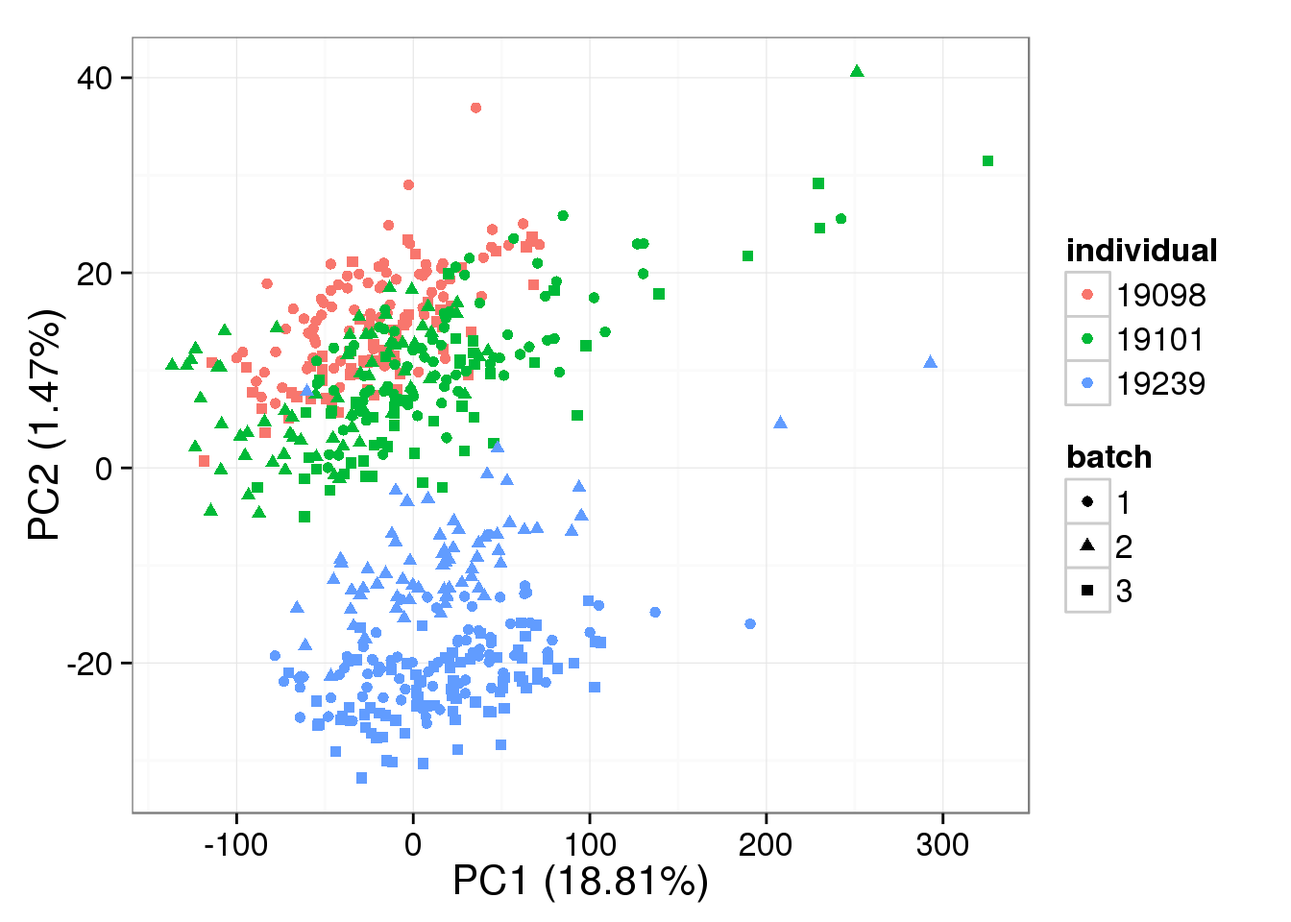
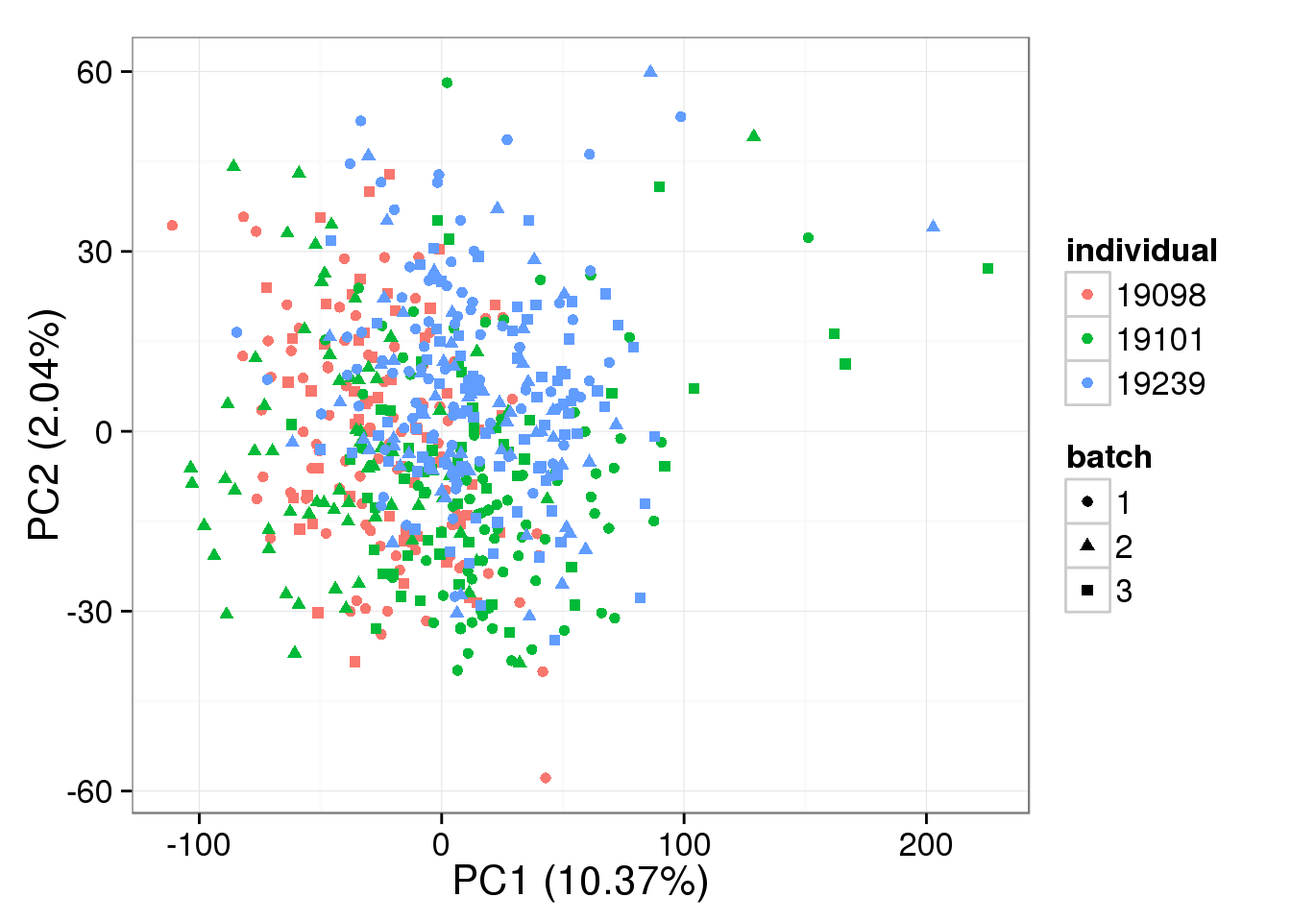
Build site.

diff --git a/analysis/gene-and-total-molecule.html b/analysis/gene-and-total-molecule.html
@@ -127,19 +127,34 @@ img {
 <div id="TOC">
 <ul>
 <li><a href="#prepare-single-cell-molecule-data">Prepare single cell molecule data</a></li>
-<li><a href="#distribution-of-molecule-counts-per-gene-in-each-individual">Distribution of molecule counts per gene in each individual</a></li>
-<li><a href="#total-molecule-counts-per-gene-of-the-same-individual">total molecule counts per gene of the same individual</a></li>
-<li><a href="#number-of-genes-detected-and-total-molecule-counts">number of genes detected and total molecule counts</a></li>
+<li><a href="#number-of-genes-detected-and-total-molecule-counts-in-single-cells">Number of genes detected and total molecule counts in single cells</a></li>
+<li><a href="#distribution-of-molecule-counts-per-gene-in-each-individual">Distribution of molecule counts per gene in each individual</a><ul>
+<li><a href="#all-endogenous-genes">All endogenous genes</a></li>
+<li><a href="#top-5000-genes">Top 5000 genes</a></li>
+<li><a href="#bottom-5000-genes">Bottom 5000 genes</a></li>
+</ul></li>
+<li><a href="#median-molecule-counts-per-gene-of-the-same-individual">Median molecule counts per gene of the same individual</a></li>
 <li><a href="#session-information">Session information</a></li>
 </ul>
 </div>
 
-<p><strong>Last updated:</strong> 2015-09-17</p>
-<p><strong>Code version:</strong> 936004610ac6f6e418d0b7e3f0da76378b29d647</p>
+<p><strong>Last updated:</strong> 2015-09-21</p>
+<p><strong>Code version:</strong> 5ebd0cb11c559b6dd5b271dff713c64be62ac63b</p>
 <pre class="r"><code>source(&quot;functions.R&quot;)
 library(&quot;limma&quot;)
 library(&quot;edgeR&quot;)
-library(ggplot2)
+library(&quot;dplyr&quot;)</code></pre>
+<pre><code>
+Attaching package: &#39;dplyr&#39;
+
+The following objects are masked from &#39;package:stats&#39;:
+
+    filter, lag
+
+The following objects are masked from &#39;package:base&#39;:
+
+    intersect, setdiff, setequal, union</code></pre>
+<pre class="r"><code>library(ggplot2)
 theme_set(theme_bw(base_size = 16))</code></pre>
 <p>From previous analysis, we found that <a href="compare-reads-v-molecules.html#effect-of-sequencing-depth-on-molecule-count">19098 has fewer reads but more molecules</a>. One of the possible cause is that there are more lowly expressed genes being detected in 19098.</p>
 <div id="prepare-single-cell-molecule-data" class="section level2">
@@ -166,7 +181,6 @@ stopifnot(dim(reads) == dim(molecules),
           nrow(anno) == ncol(molecules))</code></pre>
 <p>Remove batch 2 of individual 19098.</p>
 <pre class="r"><code>molecules_no &lt;- molecules[, !(anno$individual == 19098 &amp; anno$batch == 2)]
-reads_single &lt;- reads[, !(anno$individual == 19098 &amp; anno$batch == 2)]
 anno_no &lt;- anno[!(anno$individual == 19098 &amp; anno$batch == 2), ]
 stopifnot(ncol(molecules_no) == nrow(anno_no))</code></pre>
 <p>Remove bulk samples.</p>
@@ -175,26 +189,65 @@ anno_single &lt;- anno_no[anno_no$well != &quot;bulk&quot;, ]
 stopifnot(ncol(molecules_single) == nrow(anno_single))</code></pre>
 <p>Remove genes with zero count in the single cells</p>
 <pre class="r"><code>expressed_single &lt;- rowSums(molecules_single) &gt; 0
-molecules_single &lt;- molecules_single[which(expressed_single), ]
-reads_single &lt;- reads_single[expressed_single, ]</code></pre>
-<p>remove gene with molecule count larger than 1024 (15 if them)</p>
+molecules_single &lt;- molecules_single[which(expressed_single), ]</code></pre>
+<p>Remove gene with molecule count larger than 1024 (15 of them) for correction of collision probability</p>
 <pre class="r"><code>overexpressed_genes &lt;- rownames(molecules_single)[apply(molecules_single, 1,
                                                         function(x) any(x &gt;= 1024))]
-molecules_single &lt;- molecules_single[!(rownames(molecules_single) %in% overexpressed_genes), ]</code></pre>
-<p>collision probability and cpm molecule counts</p>
-<pre class="r"><code>molecules_single_collision &lt;- -1024 * log(1 - molecules_single / 1024)
-molecules_single_cpm &lt;- cpm(molecules_single_collision, log = TRUE)</code></pre>
+molecules_single &lt;- molecules_single[!(rownames(molecules_single) %in% overexpressed_genes), ]
+molecules_single_collision &lt;- -1024 * log(1 - molecules_single / 1024)</code></pre>
+<p>Remove ERCC, keep only the endogenous genes</p>
+<pre class="r"><code>molecules_single_ENSG &lt;- molecules_single[grep(&quot;ENSG&quot;, rownames(molecules_single)),]
+molecules_single_ERCC &lt;- molecules_single[grep(&quot;ERCC&quot;, rownames(molecules_single)),]
+stopifnot(dim(molecules_single_ERCC)[1] + dim(molecules_single_ENSG)[1] == dim(molecules_single)[1])</code></pre>
+<p>standardization by cpm molecule counts</p>
+<pre class="r"><code>molecules_single_ENSG_cpm &lt;- cpm(molecules_single_ENSG, log = TRUE)
+molecules_single_ERCC_cpm &lt;- cpm(molecules_single_ERCC, log = TRUE)</code></pre>
+</div>
+<div id="number-of-genes-detected-and-total-molecule-counts-in-single-cells" class="section level2">
+<h2>Number of genes detected and total molecule counts in single cells</h2>
+<p>The number of genes (both endogenous genes and ERCC genes) per cell corelated with the the total molecule numbers. More total molecules, more genes. However, interestingly, 19098 have not only more total gene molecules and more detected genes but also more ERCC total molecules and more ERCC genes detected.</p>
+<pre class="r"><code>## number of genes detected in each cell
+anno_single$number_gene &lt;- colSums(molecules_single_ENSG &gt; 0)
+anno_single$number_ERCC &lt;- colSums(molecules_single_ERCC &gt; 0)
+
+## number of total molecule counts in each cell
+anno_single$total_gene_molecule &lt;- colSums(molecules_single_ENSG) 
+anno_single$total_ERCC_molecule &lt;- colSums(molecules_single_ERCC) 
+
+## plot 
+ggplot(anno_single, aes(x = total_gene_molecule, y = number_gene, col = as.factor(individual), shape = as.factor(batch))) + geom_point(size = 3, alpha = 0.5) </code></pre>
+<p><img src="figure/gene-and-total-molecule.Rmd/gene-detected-1.png" title="" alt="" width="672" style="display: block; margin: auto;" /></p>
+<pre class="r"><code>ggplot(anno_single, aes(x = as.factor(individual), y = total_gene_molecule, fill = as.factor(batch))) + geom_violin(alpha = 0.5) + geom_boxplot(alpha = 0.01, width = 0.1, position = position_dodge(width = 0.9)) + labs( title = &quot;total number of gene molecule counts&quot;)</code></pre>
+<p><img src="figure/gene-and-total-molecule.Rmd/gene-detected-2.png" title="" alt="" width="672" style="display: block; margin: auto;" /></p>
+<pre class="r"><code>ggplot(anno_single, aes(x = as.factor(individual), y = total_ERCC_molecule, fill = as.factor(batch))) + geom_violin(alpha = 0.5) + geom_boxplot(alpha = 0.01, width = 0.1, position = position_dodge(width = 0.9)) + labs( title = &quot;total numer of ERCC molecule counts&quot;)</code></pre>
+<p><img src="figure/gene-and-total-molecule.Rmd/gene-detected-3.png" title="" alt="" width="672" style="display: block; margin: auto;" /></p>
+<pre class="r"><code>ggplot(anno_single, aes(x = as.factor(individual), y = number_gene, fill = as.factor(batch))) + geom_violin(alpha = 0.5) + geom_boxplot(alpha = 0.1, width = 0.1, position = position_dodge(width = 0.9)) + labs( title = &quot;number of endogenous genes detected&quot;)</code></pre>
+<p><img src="figure/gene-and-total-molecule.Rmd/gene-detected-4.png" title="" alt="" width="672" style="display: block; margin: auto;" /></p>
+<pre class="r"><code>ggplot(anno_single, aes(x = as.factor(individual), y = number_ERCC, fill = as.factor(batch))) + geom_violin(alpha = 0.5) + geom_boxplot(alpha = 0.1, width = 0.1, position = position_dodge(width = 0.9)) + labs( title = &quot;number of ERCC genes detected&quot;)</code></pre>
+<p><img src="figure/gene-and-total-molecule.Rmd/gene-detected-5.png" title="" alt="" width="672" style="display: block; margin: auto;" /></p>
+<p>To standardized within each cell, cpm was done separately for endogenous genes and ERCCs. cpm does not seem to affect the endogenous genes, whereas cpm make the ERCC more similar across batch and also across individual, suggesting that the distribution of ERCC gene expression is similar across batch and across indiviual.</p>
+<pre class="r"><code>## number of total molecule counts in each cell AFTER cpm
+anno_single$total_gene_molecule_cpm &lt;- colSums(molecules_single_ENSG_cpm) 
+anno_single$total_ERCC_molecule_cpm &lt;- colSums(molecules_single_ERCC_cpm)
+
+ggplot(anno_single, aes(x = as.factor(individual), y = total_gene_molecule_cpm, fill = as.factor(batch))) + geom_violin(alpha = 0.5) + geom_boxplot(alpha = 0.01, width = 0.1, position = position_dodge(width = 0.9)) + labs( title = &quot;total gene molecule (cpm log)&quot;)</code></pre>
+<p><img src="figure/gene-and-total-molecule.Rmd/gene-detected-cpm-1.png" title="" alt="" width="672" style="display: block; margin: auto;" /></p>
+<pre class="r"><code>ggplot(anno_single, aes(x = as.factor(individual), y = total_ERCC_molecule_cpm, fill = as.factor(batch))) + geom_violin(alpha = 0.5) + geom_boxplot(alpha = 0.01, width = 0.1, position = position_dodge(width = 0.9)) + labs( title = &quot;total ERCC molecule (cpm log)&quot;)</code></pre>
+<p><img src="figure/gene-and-total-molecule.Rmd/gene-detected-cpm-2.png" title="" alt="" width="672" style="display: block; margin: auto;" /></p>
 </div>
 <div id="distribution-of-molecule-counts-per-gene-in-each-individual" class="section level2">
 <h2>Distribution of molecule counts per gene in each individual</h2>
+<div id="all-endogenous-genes" class="section level3">
+<h3>All endogenous genes</h3>
+<p>Do a density plot of molecule counts per gene per cell to see if 19098 have more lowly expressed genes. However, it’s very hard to visualize it.</p>
 <pre class="r"><code>## 19098 (total 142 cells)
-molecules_single_cpm_19098 &lt;- molecules_single_cpm[,grep(&quot;19098&quot;, colnames(molecules_single_cpm))]
+molecules_single_ENSG_19098 &lt;- as.matrix(log(molecules_single_ENSG[,grep(&quot;19098&quot;, colnames(molecules_single_ENSG))]))
 
 ## 19101 (total 197 cells)
-molecules_single_cpm_19101 &lt;- molecules_single_cpm[,grep(&quot;19101&quot;, colnames(molecules_single_cpm))]
+molecules_single_ENSG_19101 &lt;- as.matrix(log(molecules_single_ENSG[,grep(&quot;19101&quot;, colnames(molecules_single_ENSG))]))
 
 ## 19239 (total 197 cells)
-molecules_single_cpm_19239 &lt;- molecules_single_cpm[,grep(&quot;19239&quot;, colnames(molecules_single_cpm))]
+molecules_single_ENSG_19239 &lt;- as.matrix(log(molecules_single_ENSG[,grep(&quot;19239&quot;, colnames(molecules_single_ENSG))]))
 
 ## plot all together
 plot_multi_dens &lt;- function(s)
@@ -213,43 +266,124 @@ plot_multi_dens &lt;- function(s)
     }
 }
 
-## the input of the following function MUST be a numeric list
-plot_multi_dens(list(molecules_single_cpm_19098, molecules_single_cpm_19101, molecules_single_cpm_19239))
-legend(12,1.8, c(&quot;19098&quot;,&quot;19101&quot;, &quot;19239&quot;), lwd=c(2.5,2.5),col=c(&quot;black&quot;, &quot;red&quot;, &quot;green&quot;))</code></pre>
-<p><img src="figure/gene-and-total-molecule.Rmd/unnamed-chunk-11-1.png" title="" alt="" width="672" style="display: block; margin: auto;" /></p>
-</div>
-<div id="total-molecule-counts-per-gene-of-the-same-individual" class="section level2">
-<h2>total molecule counts per gene of the same individual</h2>
-<pre class="r"><code>## without cpm standardization
-molecules_counts_per_gene_19098 &lt;- log(rowSums(molecules_single[,grep(&quot;19098&quot;, colnames(molecules_single))])+1)
-molecules_counts_per_gene_19101 &lt;- log(rowSums(molecules_single[,grep(&quot;19101&quot;, colnames(molecules_single))])+1)
-molecules_counts_per_gene_19239 &lt;- log(rowSums(molecules_single[,grep(&quot;19239&quot;, colnames(molecules_single))])+1)
+plot_multi_dens(list(molecules_single_ENSG_19098, molecules_single_ENSG_19101, molecules_single_ENSG_19239))
+legend(5, 0.7, c(&quot;19098&quot;,&quot;19101&quot;, &quot;19239&quot;), lwd=c(2.5,2.5),col=c(&quot;black&quot;, &quot;red&quot;, &quot;green&quot;))</code></pre>
+<p><img src="figure/gene-and-total-molecule.Rmd/distribution-all-gene-1.png" title="" alt="" width="672" style="display: block; margin: auto;" /></p>
+<pre class="r"><code>## ggplot
+function(x){v_19098 &lt;- as.vector(molecules_single_cpm_19098)
+v_19239 &lt;- as.vector(molecules_single_cpm_19239)
+v_19101 &lt;- as.vector(molecules_single_cpm_19101)
 
-## plot
-plot_multi_dens(list(molecules_counts_per_gene_19098, molecules_counts_per_gene_19101, molecules_counts_per_gene_19239))
-legend(10, 0.15, c(&quot;19098&quot;,&quot;19101&quot;, &quot;19239&quot;), lwd=c(2.5,2.5),col=c(&quot;black&quot;, &quot;red&quot;, &quot;green&quot;))</code></pre>
-<p><img src="figure/gene-and-total-molecule.Rmd/unnamed-chunk-12-1.png" title="" alt="" width="672" style="display: block; margin: auto;" /></p>
+data_cpm &lt;- as.data.frame(cbind(counts=c(v_19098,v_19239,v_19101),individual=rep(c(&quot;19098&quot;,&quot;19239&quot;,&quot;19101&quot;),c(length(v_19098),length(v_19239),length(v_19101)))))
+
+data_cpm$counts &lt;- as.numeric(as.character(data_cpm$counts))
+
+ggplot(data_cpm, aes(x = counts,  col = individual)) + geom_density() + labs(title=&quot;molecule per gene per cell&quot;)}</code></pre>
+<pre><code>function(x){v_19098 &lt;- as.vector(molecules_single_cpm_19098)
+v_19239 &lt;- as.vector(molecules_single_cpm_19239)
+v_19101 &lt;- as.vector(molecules_single_cpm_19101)
+
+data_cpm &lt;- as.data.frame(cbind(counts=c(v_19098,v_19239,v_19101),individual=rep(c(&quot;19098&quot;,&quot;19239&quot;,&quot;19101&quot;),c(length(v_19098),length(v_19239),length(v_19101)))))
+
+data_cpm$counts &lt;- as.numeric(as.character(data_cpm$counts))
+
+ggplot(data_cpm, aes(x = counts,  col = individual)) + geom_density() + labs(title=&quot;molecule per gene per cell&quot;)}</code></pre>
+</div>
+<div id="top-5000-genes" class="section level3">
+<h3>Top 5000 genes</h3>
+<p>There is some difference before cpm, but the distribution matched perfectly after cpm. However, surprisingly, not all top 5000 genes are expressed in cells.</p>
+<pre class="r"><code>## calculate total and select the top 5000
+molecules_single_ENSG$total &lt;- apply(molecules_single_ENSG[1:563], 1, sum)
+molecules_single_ENSG_top &lt;- molecules_single_ENSG %&gt;% arrange(desc(total)) %&gt;% slice(1:5000)
+
+## number of gene detected 
+anno_single$number_gene_top &lt;- colSums(molecules_single_ENSG_top[,1:563] &gt; 0)
+
+ggplot(anno_single, aes(x = as.factor(individual), y = number_gene_top, fill = as.factor(batch))) + geom_violin(alpha = 0.5) + geom_boxplot(alpha = 0.01, width = 0.1, position = position_dodge(width = 0.9)) + labs( title = &quot;number of gene detected (top 5000)&quot;)</code></pre>
+<p><img src="figure/gene-and-total-molecule.Rmd/top-5000-1.png" title="" alt="" width="672" style="display: block; margin: auto;" /></p>
+<pre class="r"><code>## divided by individual
+molecules_single_ENSG_top_19098 &lt;- as.matrix(log(molecules_single_ENSG_top[,grep(&quot;19098&quot;, colnames(molecules_single_ENSG_top))]))
+molecules_single_ENSG_top_19101 &lt;- as.matrix(log(molecules_single_ENSG_top[,grep(&quot;19101&quot;, colnames(molecules_single_ENSG_top))]))
+molecules_single_ENSG_top_19239 &lt;- as.matrix(log(molecules_single_ENSG_top[,grep(&quot;19239&quot;, colnames(molecules_single_ENSG_top))]))
+
+plot_multi_dens(list(molecules_single_ENSG_top_19098, molecules_single_ENSG_top_19101, molecules_single_ENSG_top_19239))
+legend(5.5 ,0.4, c(&quot;19098&quot;,&quot;19101&quot;, &quot;19239&quot;), lwd=c(2.5,2.5),col=c(&quot;black&quot;, &quot;red&quot;, &quot;green&quot;))
+title(&quot;molecule per gene top 5000 genes (counts)&quot;)</code></pre>
+<p><img src="figure/gene-and-total-molecule.Rmd/top-5000-2.png" title="" alt="" width="672" style="display: block; margin: auto;" /></p>
+<pre class="r"><code>## calculate total and select the top 5000 with cpm
+molecules_single_ENSG_cpm &lt;- as.data.frame(molecules_single_ENSG_cpm)
+molecules_single_ENSG_cpm$total &lt;- apply(molecules_single_ENSG_cpm[1:563], 1, sum)
+molecules_single_ENSG_cpm_top &lt;- molecules_single_ENSG_cpm %&gt;% arrange(desc(total)) %&gt;% slice(1:5000)
+stopifnot(rownames(molecules_single_ENSG_top) == rownames(molecules_single_ENSG_cpm_top))
+
+## divided by individual
+molecules_single_ENSG_cpm_top_19098 &lt;- as.matrix(molecules_single_ENSG_cpm_top[,grep(&quot;19098&quot;, colnames(molecules_single_ENSG_cpm_top))])
+molecules_single_ENSG_cpm_top_19101 &lt;- as.matrix(molecules_single_ENSG_cpm_top[,grep(&quot;19101&quot;, colnames(molecules_single_ENSG_cpm_top))])
+molecules_single_ENSG_cpm_top_19239 &lt;- as.matrix(molecules_single_ENSG_cpm_top[,grep(&quot;19239&quot;, colnames(molecules_single_ENSG_cpm_top))])
+
+plot_multi_dens(list(molecules_single_ENSG_cpm_top_19098, molecules_single_ENSG_cpm_top_19098, molecules_single_ENSG_cpm_top_19098))
+legend(9, 0.25, c(&quot;19098&quot;,&quot;19101&quot;, &quot;19239&quot;), lwd=c(2.5,2.5),col=c(&quot;black&quot;, &quot;red&quot;, &quot;green&quot;))
+title(&quot;molecule per gene top 5000 genes (cpm log)&quot;)</code></pre>
+<p><img src="figure/gene-and-total-molecule.Rmd/top-5000-3.png" title="" alt="" width="672" style="display: block; margin: auto;" /></p>
+<pre class="r"><code>## total molecule number
+anno_single$total_gene_molecule_top &lt;- colSums(molecules_single_ENSG_top[1:563]) 
+ggplot(anno_single, aes(x = as.factor(individual), y = total_gene_molecule_top, fill = as.factor(batch))) + geom_violin(alpha = 0.5) + geom_boxplot(alpha = 0.01, width = 0.1, position = position_dodge(width = 0.9)) + labs( title = &quot;total gene molecule top 5000&quot;)</code></pre>
+<p><img src="figure/gene-and-total-molecule.Rmd/top-5000-4.png" title="" alt="" width="672" style="display: block; margin: auto;" /></p>
+<pre class="r"><code>anno_single$total_gene_molecule_cpm_top &lt;- colSums(molecules_single_ENSG_cpm_top[1:563]) 
+ggplot(anno_single, aes(x = as.factor(individual), y = total_gene_molecule_cpm_top, fill = as.factor(batch))) + geom_violin(alpha = 0.5) + geom_boxplot(alpha = 0.01, width = 0.1, position = position_dodge(width = 0.9)) + labs( title = &quot;total gene molecule top 5000 (cpm log)&quot;)</code></pre>
+<p><img src="figure/gene-and-total-molecule.Rmd/top-5000-5.png" title="" alt="" width="672" style="display: block; margin: auto;" /></p>
+</div>
+<div id="bottom-5000-genes" class="section level3">
+<h3>Bottom 5000 genes</h3>
+<p>As exprected, more genes have only 1 molecule in 19098 than the other 2 individuals.</p>
+<pre class="r"><code>## select the bottom 5000
+molecules_single_ENSG_bottom &lt;- molecules_single_ENSG %&gt;% arrange(total) %&gt;% slice(1:5000)
+
+## number of gene detected 
+anno_single$number_gene_bottom &lt;- colSums(molecules_single_ENSG_bottom[,1:563] &gt; 0)
+
+ggplot(anno_single, aes(x = as.factor(individual), y = number_gene_bottom, fill = as.factor(batch))) + geom_violin(alpha = 0.5) + geom_boxplot(alpha = 0.01, width = 0.1, position = position_dodge(width = 0.9)) + labs( title = &quot;number of gene detected (bottom 5000)&quot;)</code></pre>
+<p><img src="figure/gene-and-total-molecule.Rmd/bottom-5000-1.png" title="" alt="" width="672" style="display: block; margin: auto;" /></p>
+<pre class="r"><code>## divided by individual
+molecules_single_ENSG_bottom_19098 &lt;- as.matrix(log(molecules_single_ENSG_bottom[,grep(&quot;19098&quot;, colnames(molecules_single_ENSG_bottom))]))
+molecules_single_ENSG_bottom_19101 &lt;- as.matrix(log(molecules_single_ENSG_bottom[,grep(&quot;19101&quot;, colnames(molecules_single_ENSG_bottom))]))
+molecules_single_ENSG_bottom_19239 &lt;- as.matrix(log(molecules_single_ENSG_bottom[,grep(&quot;19239&quot;, colnames(molecules_single_ENSG_bottom))]))
+
+plot_multi_dens(list(molecules_single_ENSG_bottom_19098, molecules_single_ENSG_bottom_19101, molecules_single_ENSG_bottom_19239))
+legend(2.5, 0.2, c(&quot;19098&quot;,&quot;19101&quot;, &quot;19239&quot;), lwd=c(2.5,2.5),col=c(&quot;black&quot;, &quot;red&quot;, &quot;green&quot;))
+title(&quot;molecule counts per gene&quot;)</code></pre>
+<p><img src="figure/gene-and-total-molecule.Rmd/bottom-5000-2.png" title="" alt="" width="672" style="display: block; margin: auto;" /></p>
+<pre class="r"><code>## the bottom 5000 with cpm
+molecules_single_ENSG_cpm_bottom &lt;- molecules_single_ENSG_cpm %&gt;% arrange(total) %&gt;% slice(1:5000)
+stopifnot(rownames(molecules_single_ENSG_bottom) == rownames(molecules_single_ENSG_cpm_bottom))
+
+## divided by individual
+molecules_single_ENSG_cpm_bottom_19098 &lt;- as.matrix(molecules_single_ENSG_cpm_bottom[,grep(&quot;19098&quot;, colnames(molecules_single_ENSG_cpm_bottom))])
+molecules_single_ENSG_cpm_bottom_19101 &lt;- as.matrix(molecules_single_ENSG_cpm_bottom[,grep(&quot;19101&quot;, colnames(molecules_single_ENSG_cpm_bottom))])
+molecules_single_ENSG_cpm_bottom_19239 &lt;- as.matrix(molecules_single_ENSG_cpm_bottom[,grep(&quot;19239&quot;, colnames(molecules_single_ENSG_cpm_bottom))])
+
+plot_multi_dens(list(molecules_single_ENSG_cpm_bottom_19098, molecules_single_ENSG_cpm_bottom_19098, molecules_single_ENSG_cpm_bottom_19098))</code></pre>
+<p><img src="figure/gene-and-total-molecule.Rmd/bottom-5000-3.png" title="" alt="" width="672" style="display: block; margin: auto;" /></p>
+<pre class="r"><code>## total molecule number
+anno_single$total_gene_molecule_bottom &lt;- colSums(molecules_single_ENSG_bottom[1:563]) 
+ggplot(anno_single, aes(x = as.factor(individual), y = total_gene_molecule_bottom, fill = as.factor(batch))) + geom_violin(alpha = 0.5) + geom_boxplot(alpha = 0.01, width = 0.1, position = position_dodge(width = 0.9)) + labs( title = &quot;total gene molecule bottom 5000&quot;)</code></pre>
+<p><img src="figure/gene-and-total-molecule.Rmd/bottom-5000-4.png" title="" alt="" width="672" style="display: block; margin: auto;" /></p>
+<pre class="r"><code>anno_single$total_gene_molecule_cpm_bottom &lt;- colSums(molecules_single_ENSG_cpm_bottom[1:563]) 
+ggplot(anno_single, aes(x = as.factor(individual), y = total_gene_molecule_cpm_bottom, fill = as.factor(batch))) + geom_violin(alpha = 0.5) + geom_boxplot(alpha = 0.01, width = 0.1, position = position_dodge(width = 0.9)) + labs( title = &quot;total gene molecule bottom 5000 (cpm log)&quot;)</code></pre>
+<p><img src="figure/gene-and-total-molecule.Rmd/bottom-5000-5.png" title="" alt="" width="672" style="display: block; margin: auto;" /></p>
+</div>
+</div>
+<div id="median-molecule-counts-per-gene-of-the-same-individual" class="section level2">
+<h2>Median molecule counts per gene of the same individual</h2>
 <pre class="r"><code>## with cpm 
-molecules_counts_per_gene_19098_cpm &lt;- rowSums(molecules_single_cpm_19098)
-molecules_counts_per_gene_19101_cpm &lt;- rowSums(molecules_single_cpm_19101)
-molecules_counts_per_gene_19239_cpm &lt;- rowSums(molecules_single_cpm_19239)
+molecules_counts_per_gene_19098_cpm &lt;- apply(molecules_single_ENSG_19098, 1, median)
+molecules_counts_per_gene_19101_cpm &lt;- apply(molecules_single_ENSG_19101, 1, median)
+molecules_counts_per_gene_19239_cpm &lt;- apply(molecules_single_ENSG_19239, 1, median)
 
 ## plot
 plot_multi_dens(list(molecules_counts_per_gene_19098_cpm, molecules_counts_per_gene_19101_cpm, molecules_counts_per_gene_19239_cpm))
-legend(2500, 0.003 , c(&quot;19098&quot;,&quot;19101&quot;, &quot;19239&quot;), lwd=c(2.5,2.5),col=c(&quot;black&quot;, &quot;red&quot;, &quot;green&quot;))</code></pre>
-<p><img src="figure/gene-and-total-molecule.Rmd/unnamed-chunk-12-2.png" title="" alt="" width="672" style="display: block; margin: auto;" /></p>
-</div>
-<div id="number-of-genes-detected-and-total-molecule-counts" class="section level2">
-<h2>number of genes detected and total molecule counts</h2>
-<pre class="r"><code>## number of genes detected in each cell
-anno_single$number_genes &lt;- colSums(molecules_single &gt; 0)
-
-## number of total molecule counts in each cell
-anno_single$total_molecule &lt;- colSums(molecules_single) 
-
-## plot 
-ggplot(anno_single, aes(x = total_molecule, y = number_genes, col = as.factor(individual), shape = as.factor(batch))) + geom_point(size = 3, alpha = 0.5)</code></pre>
-<p><img src="figure/gene-and-total-molecule.Rmd/unnamed-chunk-13-1.png" title="" alt="" width="672" style="display: block; margin: auto;" /></p>
+legend(5, 0.25 , c(&quot;19098&quot;,&quot;19101&quot;, &quot;19239&quot;), lwd=c(2.5,2.5),col=c(&quot;black&quot;, &quot;red&quot;, &quot;green&quot;))</code></pre>
+<p><img src="figure/gene-and-total-molecule.Rmd/total-per-individual-1.png" title="" alt="" width="672" style="display: block; margin: auto;" /></p>
 </div>
 <div id="session-information" class="section level2">
 <h2>Session information</h2>
@@ -269,15 +403,16 @@ attached base packages:
 [1] stats     graphics  grDevices utils     datasets  methods   base     
 
 other attached packages:
-[1] ggplot2_1.0.1 edgeR_3.10.2  limma_3.24.9  knitr_1.10.5 
+[1] ggplot2_1.0.1 dplyr_0.4.2   edgeR_3.10.2  limma_3.24.9  knitr_1.10.5 
 
 loaded via a namespace (and not attached):
- [1] Rcpp_0.12.0      digest_0.6.8     MASS_7.3-40      grid_3.2.0      
- [5] plyr_1.8.3       gtable_0.1.2     formatR_1.2      magrittr_1.5    
- [9] scales_0.2.4     evaluate_0.7     stringi_0.4-1    reshape2_1.4.1  
-[13] rmarkdown_0.6.1  labeling_0.3     proto_0.3-10     tools_3.2.0     
-[17] stringr_1.0.0    munsell_0.4.2    yaml_2.1.13      colorspace_1.2-6
-[21] htmltools_0.2.6 </code></pre>
+ [1] Rcpp_0.12.0      magrittr_1.5     MASS_7.3-40      munsell_0.4.2   
+ [5] colorspace_1.2-6 R6_2.1.1         stringr_1.0.0    plyr_1.8.3      
+ [9] tools_3.2.0      parallel_3.2.0   grid_3.2.0       gtable_0.1.2    
+[13] DBI_0.3.1        htmltools_0.2.6  lazyeval_0.1.10  yaml_2.1.13     
+[17] assertthat_0.1   digest_0.6.8     reshape2_1.4.1   formatR_1.2     
+[21] evaluate_0.7     rmarkdown_0.6.1  labeling_0.3     stringi_0.4-1   
+[25] scales_0.2.4     proto_0.3-10    </code></pre>
 </div>
 
 

diff --git a/analysis/ercc-normalization.html b/analysis/ercc-normalization.html
@@ -169,8 +169,8 @@ img {
 </ul>
 </div>
 
-<p><strong>Last updated:</strong> 2015-08-11</p>
-<p><strong>Code version:</strong> 988739a6acfa3d3e2a1347d46c62fb22ffc9a3ba</p>
+<p><strong>Last updated:</strong> 2015-09-21</p>
+<p><strong>Code version:</strong> 5ebd0cb11c559b6dd5b271dff713c64be62ac63b</p>
 <p>Testing different approaches to normalize the data.</p>
 <p>For the bulk samples, the data used is the TMM-normalized log2 reads per million. The only exception to this is with RUVg because it expects count data.</p>
 <p>For the single cell samples, the data is the log2 molecules per million after correcting for the collision probability. The only exception to this is with RUVg because it expects count data. Also, batch 2 of individual 19098 is removed because its ERCC data is an outlier.</p>
@@ -315,8 +315,8 @@ stopifnot(!is.na(bulk_norm))</code></pre>
 single_norm[, ] &lt;- NA
 for (i in 1:ncol(single_norm)) {
   single_fit &lt;- lm(molecules_single_cpm[ercc_rows_single, i] ~ log2(ercc_single$conc_mix1))
-  # Y = mX + b -&gt; X = (Y + b) / m
-  single_norm[, i] &lt;- (molecules_single_cpm[, i] + single_fit$coefficients[1]) /
+  # Y = mX + b -&gt; X = (Y - b) / m
+  single_norm[, i] &lt;- (molecules_single_cpm[, i] - single_fit$coefficients[1]) /
                        single_fit$coefficients[2]
 }
 stopifnot(!is.na(single_norm))</code></pre>
@@ -701,10 +701,10 @@ other attached packages:
 [21] knitr_1.10.5           
 
 loaded via a namespace (and not attached):
- [1] Rcpp_0.11.6          lattice_0.20-31      digest_0.6.8        
- [4] plyr_1.8.2           futile.options_1.0.0 aroma.light_2.4.0   
+ [1] Rcpp_0.12.0          lattice_0.20-31      digest_0.6.8        
+ [4] plyr_1.8.3           futile.options_1.0.0 aroma.light_2.4.0   
  [7] RSQLite_1.0.0        DESeq_1.20.0         evaluate_0.7        
-[10] BiocInstaller_1.18.2 zlibbioc_1.14.0      annotate_1.46.0     
+[10] BiocInstaller_1.18.4 zlibbioc_1.14.0      annotate_1.46.0     
 [13] R.utils_2.1.0        R.oo_1.19.0          rmarkdown_0.6.1     
 [16] proto_0.3-10         labeling_0.3         splines_3.2.0       
 [19] geneplotter_1.46.0   stringr_1.0.0        munsell_0.4.2       
